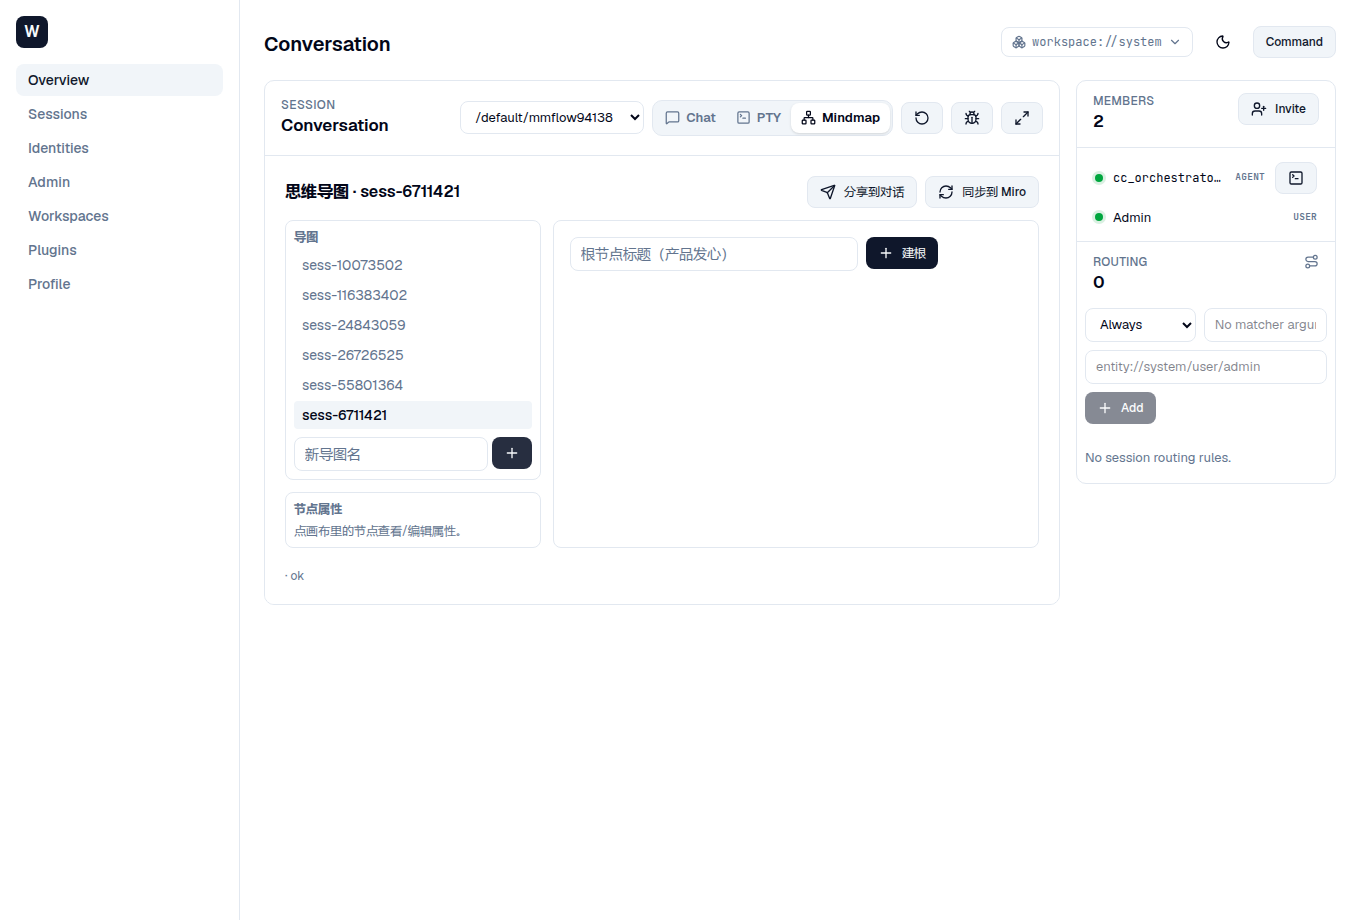
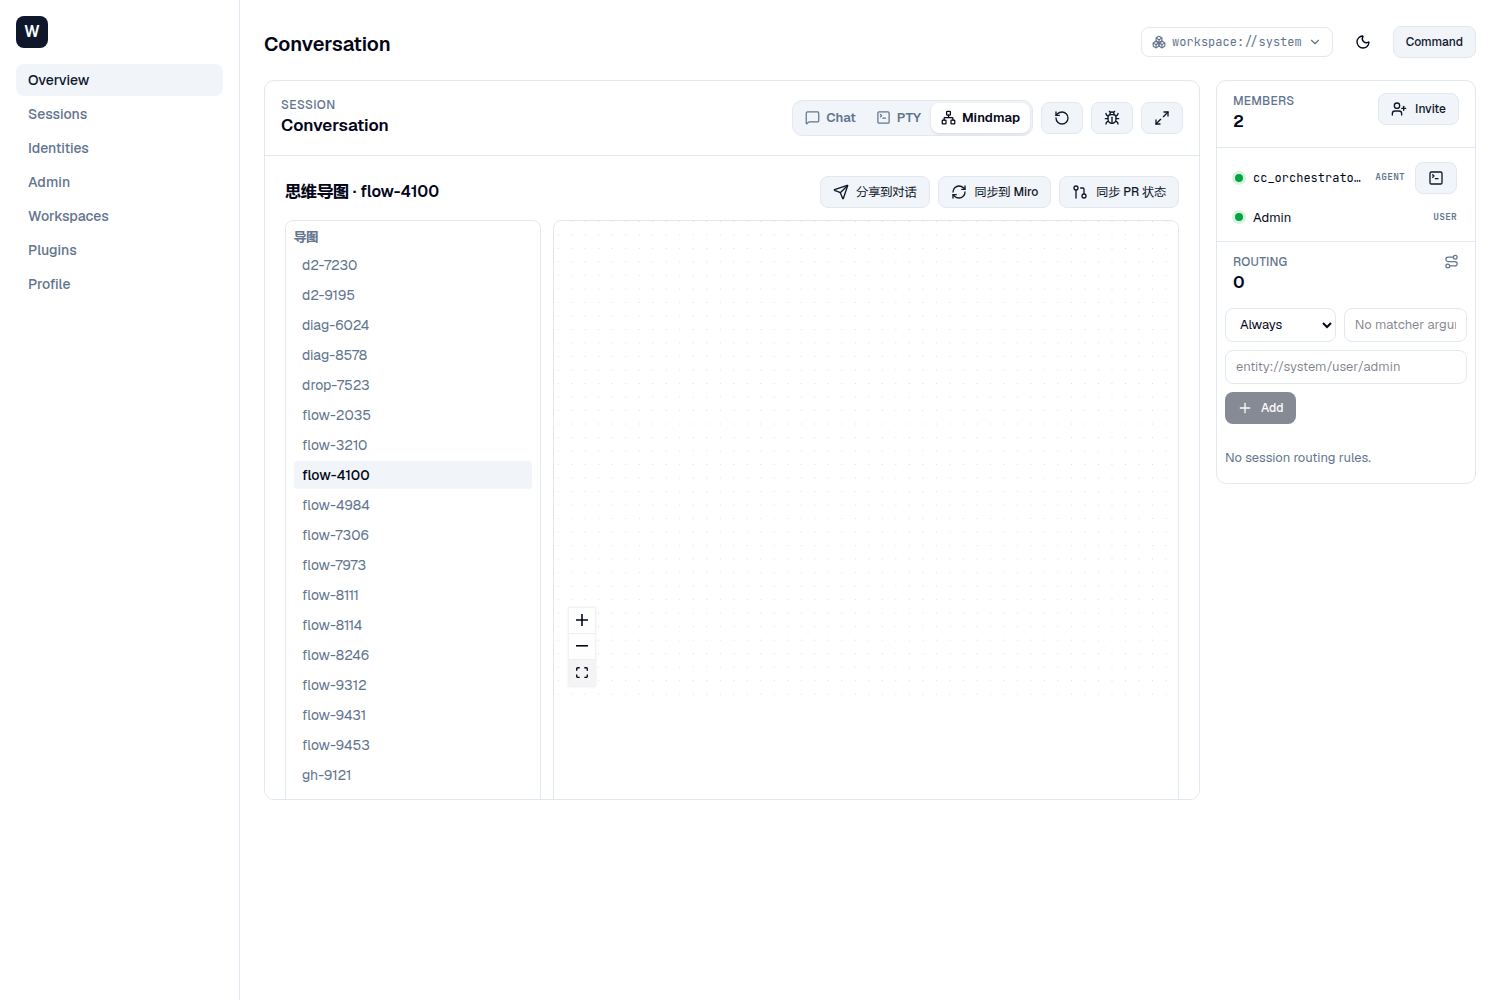
fix(mindmap): 画布可用性修复(07流程e2e抓出) + NodePanel加子入口 + CI/digest
07 完整流程 e2e(9棒接力链:定位→北极星→痛点→认领→线框→功能卡→issue→测试→PR)抓出画布渲染bug:
- 真bug: react-flow 默认 Backspace/Delete 删节点——编辑内容后焦点回画布、删除键泄漏把选中节点
  '悄悄删了'(画布看着空)。deleteKeyCode={null} 禁掉(不该按退格删节点)。
- fitView 在节点被测量尺寸前就跑会算错视口→节点跑出可视区。改 useNodesInitialized 门控 + duration:0。
- flex 高度链: 左栏(导图列表+节点属性)一长会撑高、把右侧画布滚出视野。行加 min-h-0(部分缓解;
  彻底修需动 session 布局高度链,归 world-coordination 单独做)。
- NodePanel 加'+加子'按钮: 深链建树不再只能靠 canvas '+'(可靠入口)。

注: 完整流程**功能**已 e2e 验证全通(9棒+真相源内容入mindmap+认领/状态/指标+GitHub登记PR#3
出需求摘要留言+轮询merged自动done+drop砍子树反哺痛点)。画布**可视**渲染仍偶发不稳(根因如上)。

diff --git a/apps/ezagent_plugin_world/assets/src/components/MindmapCanvas.tsx b/apps/ezagent_plugin_world/assets/src/components/MindmapCanvas.tsx
@@ -7,6 +7,7 @@ import {
   ReactFlow,
   ReactFlowProvider,
   useEdgesState,
+  useNodesInitialized,
   useNodesState,
   useReactFlow,
   type Edge,
@@ -162,14 +163,20 @@ function Flow({uri, tree, selectedId, onSelectNode, onAction}: CanvasProps) {
   const laid = useMemo(() => layoutTree(tree, selectedId, onSelectNode, onAddChild), [tree, selectedId, onSelectNode, onAddChild])
   const [nodes, setNodes, onNodesChange] = useNodesState(laid.nodes)
   const [edges, setEdges, onEdgesChange] = useEdgesState(laid.edges)
+  const nodesInitialized = useNodesInitialized()
 
-  // 树/选中变化 → 重新布局 + 重新 fitView（加了节点要自动入视野，否则点不到/看不见）。
+  // 树/选中变化 → 重新布局（推给 react-flow）。
   useEffect(() => {
     setNodes(laid.nodes)
     setEdges(laid.edges)
-    const t = setTimeout(() => fitView({padding: 0.2, maxZoom: 1}), 60)
-    return () => clearTimeout(t)
-  }, [laid, setNodes, setEdges, fitView])
+  }, [laid, setNodes, setEdges])
+
+  // fitView 必须等节点被 react-flow **测量好尺寸**(`nodesInitialized`)再跑——否则在节点尺寸
+  // 还是 0 时 fit 会把视口算错、节点全跑出可视区(画布空白但节点其实在 DOM 里)。这是之前
+  // "建了树画布却空白"的根因。laid 变(加/删节点)→nodesInitialized 先 false 再 true→届时 fit。
+  useEffect(() => {
+    if (nodesInitialized) fitView({padding: 0.2, maxZoom: 1, duration: 0})
+  }, [nodesInitialized, laid, fitView])
 
   // react-flow 必须有显式尺寸——flex/百分比在 mount 时为 0 会让 fitView 失效、节点不可见。
   return (
@@ -183,6 +190,7 @@ function Flow({uri, tree, selectedId, onSelectNode, onAction}: CanvasProps) {
         nodeTypes={nodeTypes}
         fitView
         fitViewOptions={{padding: 0.2, maxZoom: 1}}
+        deleteKeyCode={null}
         minZoom={0.2}
         proOptions={{hideAttribution: true}}
       >

diff --git a/apps/ezagent_plugin_world/assets/src/components/Mindmap.tsx b/apps/ezagent_plugin_world/assets/src/components/Mindmap.tsx
@@ -183,8 +183,9 @@ function MindmapDetail({state, onAction, onShare, onShareArtifact, onUploadFile}
         </div>
       )}
 
-      <div className="flex flex-1 gap-3 overflow-hidden">
-        {/* 侧边栏：导图列表 + 新建 + 选中节点属性 */}
+      {/* min-h-0：让 flex-1 真正按可用高度约束（否则左栏一长会撑高、把右侧画布滚出视野） */}
+      <div className="flex min-h-0 flex-1 gap-3 overflow-hidden">
+        {/* 侧边栏：导图列表 + 新建 + 选中节点属性（内部独立滚动，不带动画布） */}
         <aside className="flex w-64 flex-shrink-0 flex-col gap-3 overflow-y-auto">
           <div className="rounded-md border border-border p-2">
             <div className="mb-1.5 text-xs font-semibold text-muted-foreground">导图</div>
@@ -284,6 +285,12 @@ function NodePanel({node, args, stages, statuses, onAction, onShareArtifact, onU
         </div>
       )}
       <div className="flex flex-wrap items-center gap-1">
+        <Button type="button" size="sm" variant="secondary" title="给本节点加一个子节点（接力链下一棒）" onClick={() => {
+          const t = window.prompt("子节点标题（接力链下一棒，如 北极星指标）")
+          if (t && t.trim()) onAction("mindmap.add_node", {mindmap_uri: args.mindmap_uri, parent_id: args.id, title: t.trim()})
+        }}>
+          <Plus className="h-3.5 w-3.5" /> 加子
+        </Button>
         <Button type="button" size="sm" variant="secondary" onClick={() => onAction("mindmap.claim_node", args)}>
           <Hand className="h-3.5 w-3.5" /> 认领
         </Button>
